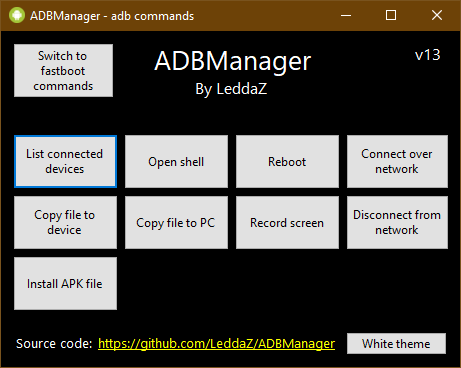
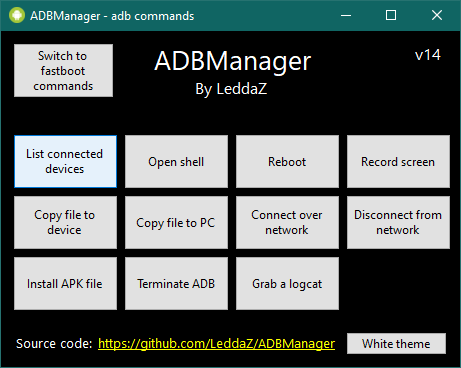
Update README and screenshot

diff --git a/README.md b/README.md
@@ -2,7 +2,7 @@
 Windows Forms applications written in Visual Basic to run some basic ADB commands from a GUI.
 
 # Usage
-Download the [latest release](https://github.com/LeddaZ/ADBManager/releases/latest) and unzip the archive to an empty folder, then run `ADBManager.exe`. The application will start with the following screen:
+Download the [latest release](https://github.com/LeddaZ/ADBManager/releases/latest) and extract the archive to an empty folder, then run `ADBManager.exe`. The application will start with the following screen:
 
 ![adb](https://github.com/LeddaZ/ADBManager/blob/master/pics/adb.png)
 
@@ -10,12 +10,14 @@ Download the [latest release](https://github.com/LeddaZ/ADBManager/releases/late
 - List connected devices > `adb devices`
 - Open shell > `adb shell`
 - Reboot > See [Reboot commands](https://github.com/LeddaZ/ADBManager/blob/master/README.md#reboot-commands)
-- Connect over network > `adb connect %ip%:5555` (`%ip%` is the IP address of your device; you have to connect your device via USB, run `adb tcpip 5555`, disconnect the device and click on the button)
+- Record screen > `adb shell screenrecord /sdcard/%name%.mp4` (`%name%` is the filename; max. 3 minutes due to adb limitations)
 - Copy file to device > `adb push -a %source% %dest%` (`%source%` is the source file and `%dest%` is the destination path)
 - Copy file to PC > `adb pull -a %source% %dest%` (same as the above)
-- Record screen > `adb shell screenrecord /sdcard/%name%.mp4` (`%name%` is the filename; max. 3 minutes due to adb limitations)
+- Connect over network > `adb connect %ip%:5555` (`%ip%` is the IP address of your device; you have to connect your device via USB, run `adb tcpip 5555`, disconnect the device and click on the button)
 - Disconnect from network > `adb disconnect`
 - Install APK file > `adb install %apk%` (`%apk%` is the APK file path)
+- Terminate ADB > `adb kill-server`
+- Grab a logcat > `adb logcat %file%.txt` (`%file%` is the logcat file path)
 
 ## Reboot commands
 - Normal > `adb reboot`
@@ -25,3 +27,6 @@ Download the [latest release](https://github.com/LeddaZ/ADBManager/releases/late
 ## fastboot commands
 - List connected devices > `fastboot devices`
 - Check bootloader status > `fastboot oem device-info`
+- Flash a recovery image > `fastboot flash recovery %img%` (`%img%` is the recovery image path)
+- Boot an image > `fastboot boot %boot%` (`%boot%` is the image path)
+- Reboot > `fastboot reboot`
